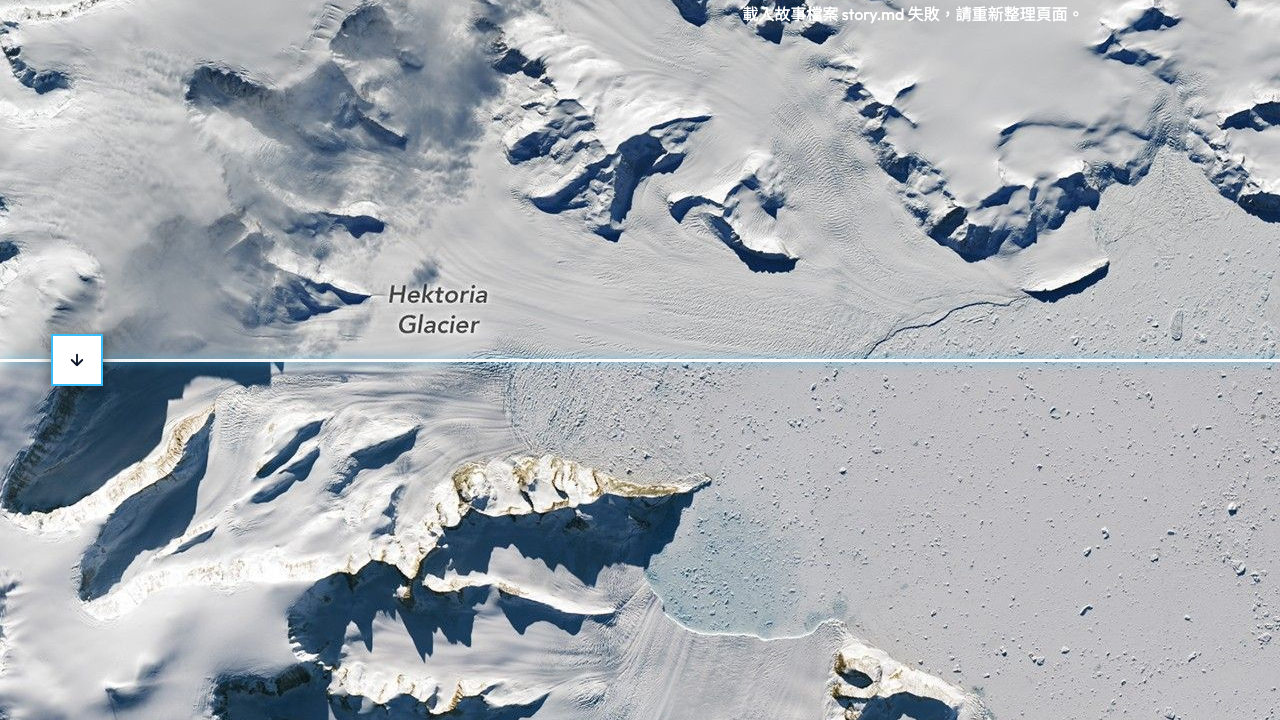
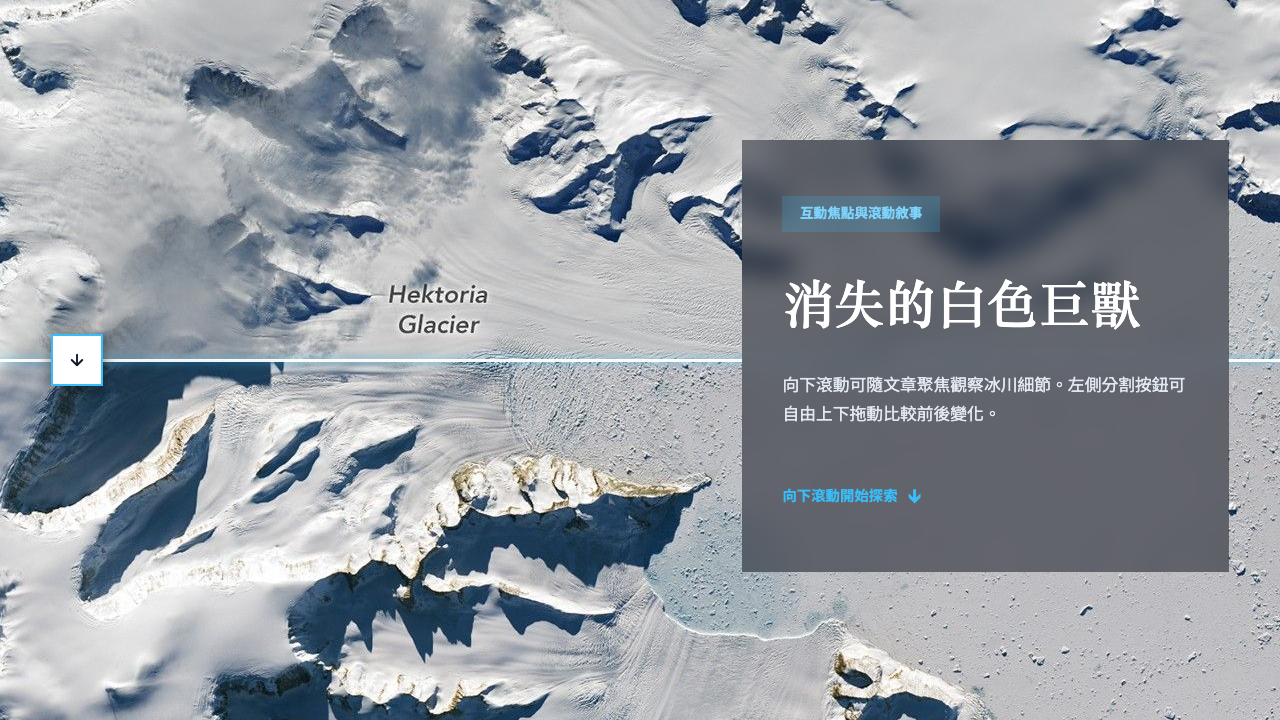
feat(v5): add quick waypoints navigation box at the bottom of 5-ee for interactive chapter jumping

Changed region(s): [[0.5625, 0.1833, 0.9688, 0.7944], [0.5625, 0.0, 0.8438, 0.0306]]

diff --git a/5-ee/style.css b/5-ee/style.css
@@ -171,7 +171,7 @@ body {
   top: 50%;
   height: 44px;
   transform: translateY(-50%);
-  z-index: 60; /* Higher than story overlay so user can easily click/drag */
+  z-index: 60;
   display: flex;
   align-items: center;
   cursor: ns-resize;
@@ -190,7 +190,7 @@ body {
 /* Left-Anchored Drag Button (positioned in the left 60% exposed area) */
 .handle-button {
   position: absolute;
-  left: 4vw; /* Left anchor to avoid right-aligned text cards */
+  left: 4vw;
   width: 52px;
   height: 52px;
   border-radius: 0;
@@ -282,7 +282,7 @@ body {
   position: relative;
   z-index: 10;
   width: 100%;
-  pointer-events: none; /* Allow drag events on the handle bar beneath */
+  pointer-events: none;
 }
 
 /* Hero Section Aligned to Right */
@@ -311,7 +311,7 @@ body {
   flex-direction: column;
   align-items: flex-start;
   gap: 1.5rem;
-  pointer-events: auto; /* Enable interaction for text cards */
+  pointer-events: auto;
 }
 
 .hero-tag {
@@ -366,7 +366,7 @@ body {
   width: 38vw;
   min-width: 340px;
   max-width: 500px;
-  padding: 0 0 30vh 0;
+  padding: 0 0 10vh 0;
   display: flex;
   flex-direction: column;
 }
@@ -386,11 +386,11 @@ body {
   opacity: 0.55;
   transform: translateY(30px);
   transition: opacity 0.5s ease, transform 0.5s ease, background 0.5s ease;
-  pointer-events: auto; /* Enable interaction for text cards */
+  pointer-events: auto;
 }
 
 .narrative-card:last-child {
-  margin-bottom: 30vh;
+  margin-bottom: 10vh;
 }
 
 .narrative-card.active {
@@ -455,6 +455,93 @@ body {
   margin: 0.85rem 0;
   color: #e2e8f0;
   font-size: 0.98rem;
+}
+
+/* Quick Waypoints Navigation Section at Bottom */
+.waypoints-footer-nav {
+  background: rgba(8, 12, 24, 0.85);
+  backdrop-filter: blur(16px);
+  -webkit-backdrop-filter: blur(16px);
+  border: 1px solid rgba(56, 189, 248, 0.3);
+  border-radius: 12px;
+  padding: 1.5rem;
+  margin-top: 2rem;
+  margin-bottom: 15vh;
+  display: flex;
+  flex-direction: column;
+  gap: 1rem;
+  pointer-events: auto;
+  box-shadow: 0 10px 30px rgba(0, 0, 0, 0.5);
+}
+
+.waypoints-nav-header {
+  font-size: 0.9rem;
+  font-weight: 700;
+  color: var(--accent-primary);
+  display: flex;
+  align-items: center;
+  gap: 0.5rem;
+  letter-spacing: 0.03em;
+}
+
+.waypoints-buttons-grid {
+  display: grid;
+  grid-template-columns: repeat(auto-fill, minmax(130px, 1fr));
+  gap: 0.6rem;
+}
+
+.waypoint-btn {
+  background: rgba(255, 255, 255, 0.06);
+  border: 1px solid rgba(255, 255, 255, 0.12);
+  color: var(--text-muted);
+  padding: 0.55rem 0.75rem;
+  border-radius: 8px;
+  font-family: var(--font-family);
+  font-size: 0.8rem;
+  font-weight: 600;
+  cursor: pointer;
+  display: flex;
+  align-items: center;
+  gap: 0.45rem;
+  transition: all 0.2s ease;
+  text-align: left;
+}
+
+.waypoint-btn .wp-num {
+  font-family: 'Outfit', sans-serif;
+  font-size: 0.72rem;
+  font-weight: 700;
+  color: var(--accent-primary);
+  background: rgba(56, 189, 248, 0.15);
+  padding: 0.1rem 0.4rem;
+  border-radius: 4px;
+  white-space: nowrap;
+}
+
+.waypoint-btn .wp-title {
+  white-space: nowrap;
+  overflow: hidden;
+  text-overflow: ellipsis;
+  flex-grow: 1;
+}
+
+.waypoint-btn:hover {
+  background: rgba(56, 189, 248, 0.15);
+  border-color: var(--accent-primary);
+  color: #ffffff;
+  transform: translateY(-2px);
+}
+
+.waypoint-btn.active {
+  background: var(--accent-primary);
+  border-color: var(--accent-primary);
+  color: #0f172a;
+  font-weight: 700;
+}
+
+.waypoint-btn.active .wp-num {
+  background: rgba(15, 23, 42, 0.3);
+  color: #0f172a;
 }
 
 .app-footer {

diff --git a/5-ee/app.js b/5-ee/app.js
@@ -153,9 +153,52 @@ document.addEventListener('DOMContentLoaded', async () => {
         narrativeStream.appendChild(card);
       });
 
+      // Render Waypoints Navigation Box at the bottom of the stream
+      renderWaypointsNav(data.chapters);
+
       // Bind Intersection Observer to dynamically generated cards
       bindObserver();
     }
+  }
+
+  // --- Render Waypoints Navigation Box at Bottom ---
+  function renderWaypointsNav(chapters) {
+    const navBox = document.createElement('div');
+    navBox.className = 'waypoints-footer-nav';
+    navBox.id = 'waypointsFooterNav';
+
+    navBox.innerHTML = `
+      <div class="waypoints-nav-header">
+        <i class="ri-compass-3-line"></i> 快速探索焦點章節 (Waypoints Quick Jump)
+      </div>
+      <div class="waypoints-buttons-grid">
+        ${chapters.map(chap => `
+          <button class="waypoint-btn ${chap.id === 1 ? 'active' : ''}" data-step="${chap.id}" title="${escapeHtml(chap.title)}">
+            <span class="wp-num">${escapeHtml(chap.badge.replace(/Chapter\s*/i, ''))}</span>
+            <span class="wp-title">${escapeHtml(chap.title)}</span>
+          </button>
+        `).join('')}
+      </div>
+    `;
+
+    narrativeStream.appendChild(navBox);
+
+    // Bind Click Events on Waypoint Buttons
+    navBox.querySelectorAll('.waypoint-btn').forEach(btn => {
+      btn.addEventListener('click', () => {
+        const step = parseInt(btn.dataset.step, 10);
+        const targetCard = document.querySelector(`.narrative-card[data-step="${step}"]`);
+        
+        if (targetCard) {
+          targetCard.scrollIntoView({ behavior: 'smooth', block: 'center' });
+          triggerFocalPoint(step);
+          
+          // Highlight active button
+          navBox.querySelectorAll('.waypoint-btn').forEach(b => b.classList.remove('active'));
+          btn.classList.add('active');
+        }
+      });
+    });
   }
 
   function escapeHtml(str) {
@@ -183,7 +226,7 @@ document.addEventListener('DOMContentLoaded', async () => {
   // Initialize bar at center 50%
   applyClipPathAndBar();
 
-  // --- Smooth Bar Animation Helper (Used for Waypoint Auto Sweep & Click Slide) ---
+  // --- Smooth Bar Animation Helper ---
   function animateBarTo(targetPercent, duration = 1000) {
     if (animId) cancelAnimationFrame(animId);
 
@@ -343,6 +386,8 @@ document.addEventListener('DOMContentLoaded', async () => {
   // Bind IntersectionObserver to rendered cards
   function bindObserver() {
     const cards = document.querySelectorAll('.narrative-card');
+    const wpBtns = document.querySelectorAll('.waypoint-btn');
+
     const observerOptions = {
       root: null,
       rootMargin: '-35% 0px -40% 0px',
@@ -357,6 +402,12 @@ document.addEventListener('DOMContentLoaded', async () => {
 
           const step = parseInt(entry.target.dataset.step, 10);
           triggerFocalPoint(step);
+
+          // Update active state of Waypoint buttons
+          wpBtns.forEach(btn => {
+            const btnStep = parseInt(btn.dataset.step, 10);
+            btn.classList.toggle('active', btnStep === step);
+          });
         }
       });
     }, observerOptions);

diff --git a/5-ee/index.html b/5-ee/index.html
@@ -8,6 +8,8 @@
   <link rel="preconnect" href="https://fonts.googleapis.com">
   <link rel="preconnect" href="https://fonts.gstatic.com" crossorigin>
   <link href="https://fonts.googleapis.com/css2?family=Outfit:wght@300;400;600;700;800&family=Noto+Sans+TC:wght@300;400;500;700&display=swap" rel="stylesheet">
+  <!-- Remixicon -->
+  <link href="https://cdn.jsdelivr.net/npm/remixicon@3.5.0/fonts/remixicon.css" rel="stylesheet">
   <!-- Marked.js Markdown Parser -->
   <script src="https://cdn.jsdelivr.net/npm/marked/marked.min.js"></script>
   <link rel="stylesheet" href="style.css">